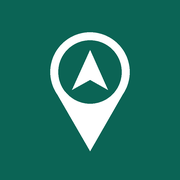
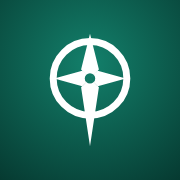
Add files via upload

Changed region(s): [[0.25, 0.1667, 0.75, 0.8333], [0.0, 0.6944, 1.0, 1.0]]

diff --git a/index.html b/index.html
@@ -6,7 +6,8 @@
   <meta name="application-name" content="Waypoint">
   <meta name="theme-color" content="#000000">
   <title>Waypoint</title>
-  <link rel="icon" href="icons/icon.svg" type="image/svg+xml">
+  <link rel="icon" href="icons/favicon.svg" type="image/svg+xml">
+  <link rel="apple-touch-icon" href="icons/apple-touch-icon.png">
   <link rel="stylesheet" href="style.css">
 </head>
 <body>
@@ -158,7 +159,7 @@
         <circle cx="50" cy="50" r="40" fill="none" stroke="currentColor" stroke-width="6"/>
         <path d="M32 51 l12 12 l24 -26" fill="none" stroke="currentColor" stroke-width="8" stroke-linecap="round" stroke-linejoin="round"/>
       </svg>
-      <h1 class="arrive-title">You've arrived</h1>
+      <h1 class="arrive-title">Land ahoy!</h1>
       <p id="arrive-name" class="pv-addr"></p>
       <div class="actions">
         <button class="btn primary" data-action="done">Done</button>
@@ -168,12 +169,12 @@
     <div id="toast" class="toast" role="status" aria-live="polite" hidden></div>
   </div>
 
-  <!-- Logo symbol: a location pin whose inner mark is a forward chevron -->
+  <!-- Logo: a compass rose whose south point is a map pin -->
   <svg width="0" height="0" style="position:absolute" aria-hidden="true">
     <symbol id="logo" viewBox="0 0 64 64">
-      <path d="M32 4C20.4 4 11 13.2 11 24.6 11 40 32 60 32 60s21-20 21-35.4C53 13.2 43.6 4 32 4z"
-            fill="none" stroke="currentColor" stroke-width="5" stroke-linejoin="round"/>
-      <path d="M24 32 L32 16 L40 32 L32 27 Z" fill="currentColor"/>
+      <circle cx="32" cy="26" r="19" fill="none" stroke="currentColor" stroke-width="3.6"/>
+      <path fill="currentColor" fill-rule="evenodd" d="M32 3L36.6 21.4 32 26 27.4 21.4ZM32 26L36.6 30.6 32 61 27.4 30.6ZM32 26L36 22 50.5 26 36 30ZM32 26L28 22 13.5 26 28 30ZM34.7 26a2.7 2.7 0 1 0-5.4 0a2.7 2.7 0 1 0 5.4 0Z"/>
+      <path fill="#ff6b6b" d="M32 3L36.6 21.4 32 23.2 27.4 21.4Z"/>
     </symbol>
   </svg>
 

diff --git a/send.html b/send.html
@@ -8,7 +8,7 @@
   <meta name="apple-mobile-web-app-status-bar-style" content="black-translucent">
   <meta name="theme-color" content="#0b1012">
   <title>Waypoint – Send to glasses</title>
-  <link rel="icon" href="icons/icon.svg" type="image/svg+xml">
+  <link rel="icon" href="icons/favicon.svg" type="image/svg+xml">
   <link rel="apple-touch-icon" href="icons/apple-touch-icon.png">
   <style>
     :root {
@@ -94,8 +94,9 @@
 <main>
   <header>
     <svg viewBox="0 0 64 64" aria-hidden="true">
-      <path d="M32 4C20.4 4 11 13.2 11 24.6 11 40 32 60 32 60s21-20 21-35.4C53 13.2 43.6 4 32 4z" fill="none" stroke="currentColor" stroke-width="5" stroke-linejoin="round"/>
-      <path d="M24 32 L32 16 L40 32 L32 27 Z" fill="currentColor"/>
+      <circle cx="32" cy="26" r="19" fill="none" stroke="currentColor" stroke-width="3.6"/>
+      <path fill="currentColor" fill-rule="evenodd" d="M32 3L36.6 21.4 32 26 27.4 21.4ZM32 26L36.6 30.6 32 61 27.4 30.6ZM32 26L36 22 50.5 26 36 30ZM32 26L28 22 13.5 26 28 30ZM34.7 26a2.7 2.7 0 1 0-5.4 0a2.7 2.7 0 1 0 5.4 0Z"/>
+      <path fill="#ff6b6b" d="M32 3L36.6 21.4 32 23.2 27.4 21.4Z"/>
     </svg>
     <h1>Send to glasses</h1>
     <span>Waypoint</span>

diff --git a/style.css b/style.css
@@ -61,7 +61,7 @@ button { font: inherit; color: inherit; }
 
 /* ---------- brand ---------- */
 .brand { display: flex; align-items: center; gap: 0.5rem; color: var(--accent); }
-.brand-mark { width: 1.9rem; height: 1.9rem; }
+.brand-mark { width: 2.3rem; height: 2.3rem; }
 .brand-name { font-weight: 700; font-size: 1.25rem; letter-spacing: 0.02em; color: var(--text); }
 
 /* ---------- header buttons, chips ---------- */

diff --git a/README.md b/README.md
@@ -121,7 +121,8 @@ search.js                               search engine (postcodes, categories, na
 style.css                               styles for the additive display
 app.js                                  search, routing, tracking, voice, mini map
 config.js                               your settings (Mapbox token, units…)
-icons/icon.svg                          monochrome app icon
+icons/icon.svg                          monochrome glasses launcher icon (compass pin)
+icons/favicon.svg                       browser tab icon
 icons/apple-touch-icon.png              iPhone Home Screen icon
 .well-known/meta-wearables-manifest.json  name + icon for the glasses launcher
 .nojekyll                               lets GitHub Pages serve .well-known
